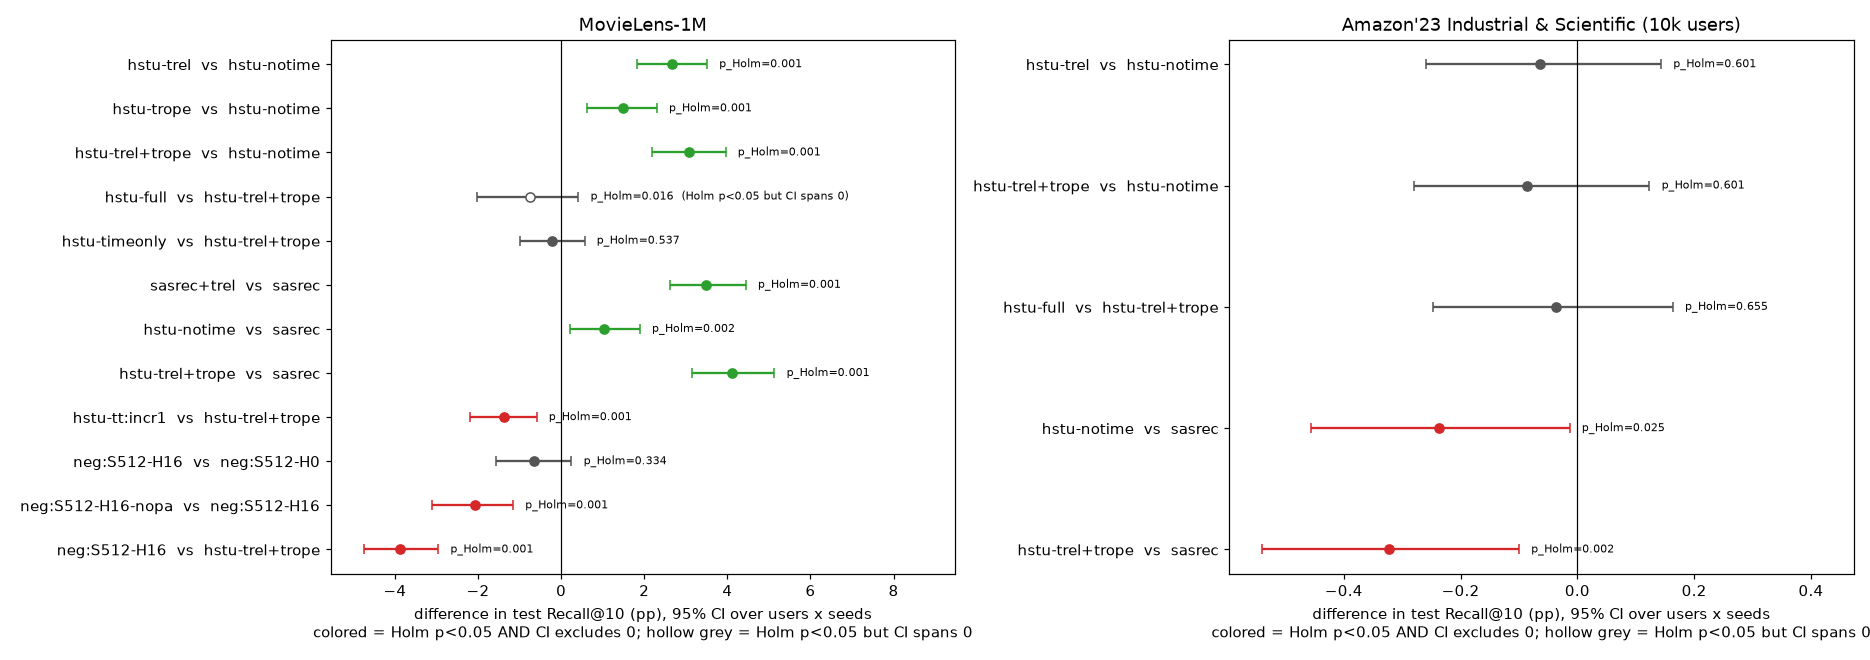
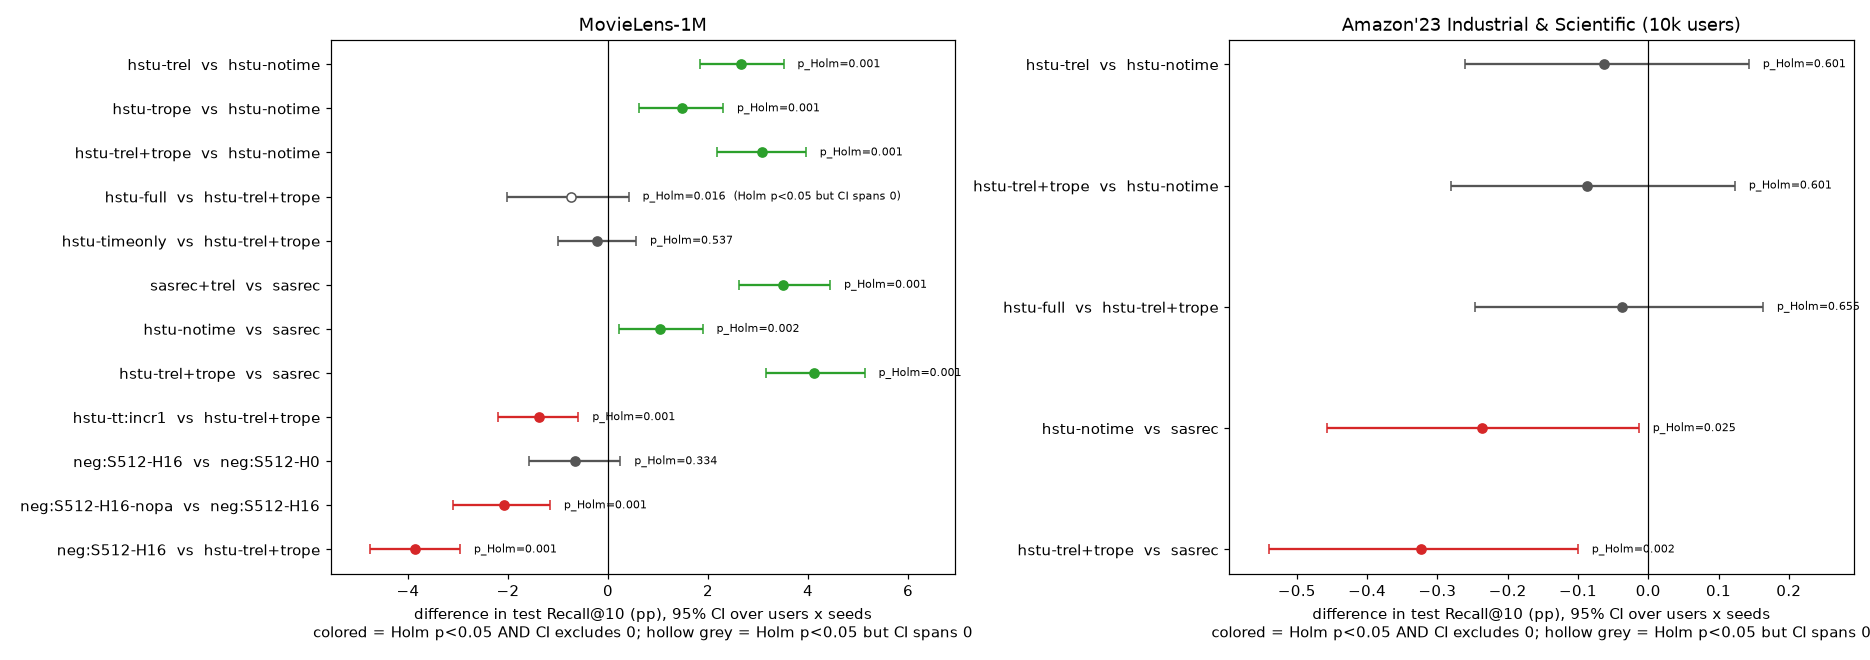
Review r2: posthoc numbers from posthoc.json; hstu-full seed 0 best 22/stopped 26; finalize runs audit.py; forest xlim fits labels; 5 hardening tests (27/27 mutants killed)

diff --git a/tests/test_models.py b/tests/test_models.py
@@ -14,7 +14,7 @@ from tasr.stats import signflip_p
 L, N_ITEMS = 8, 20
 # arch x pos x (trel, trope, tabs)
 CONFIGS = [(a, p, *tf) for a, p, tf in itertools.product(
-    ["sasrec", "hstu"], ["abs", "rel", "none"], [(0, 0, 0), (1, 0, 0), (0, 1, 0), (1, 1, 0), (1, 1, 1)])]
+    ["sasrec", "hstu"], ["abs", "rel", "none"], [(0, 0, 0), (1, 0, 0), (0, 1, 0), (0, 0, 1), (1, 1, 0), (1, 1, 1)])]
 
 
 def make(arch, pos, trel, trope, tabs, seed=0, layers=2):
@@ -119,3 +119,48 @@ def test_window_positions_match_train_batch_targets(toy_npz, max_len):
         y = y[0][y[0] > 0].numpy()
         it, _ = d.seq(u)
         assert np.array_equal(it[window_positions(d, u)], y)
+
+
+@pytest.mark.parametrize("cfg", [c for c in CONFIGS if c[1] != "abs"], ids=lambda c: "-".join(map(str, c)))
+def test_left_padding_is_invisible(cfg):
+    """Padding keys are masked: the same history encoded with and without left padding gives the same
+    outputs at the real positions (absolute positions excluded: they shift with the padding by design)."""
+    m = make(*cfg)
+    x, t, q = batch(4)
+    x[:, :3] = 0
+    with torch.no_grad():
+        h_pad = m.encode(x, t, q)[:, 3:]
+        h = m.encode(x[:, 3:], t[:, 3:], q[:, 3:])
+    assert torch.allclose(h_pad, h, atol=1e-5)
+
+
+@pytest.mark.parametrize("arch", ["sasrec", "hstu"])
+def test_relative_position_bias_sees_order(arch):
+    """One layer, no time features: without positions the last output is invariant to permuting the earlier
+    items; the relative-position bias must break that (a reversed/clamped index makes it constant)."""
+    x, t, q = batch(5, B=1)
+    perm = torch.cat([torch.randperm(L - 1, generator=torch.Generator().manual_seed(1)), torch.tensor([L - 1])])
+    outs = {}
+    for pos in ("none", "rel"):
+        m = make(arch, pos, 0, 0, 0, layers=1)
+        with torch.no_grad():
+            outs[pos] = (m.encode(x, t, q)[:, -1], m.encode(x[:, perm], t, q)[:, -1])
+    assert torch.allclose(*outs["none"], atol=1e-5)
+    assert not torch.allclose(*outs["rel"], atol=1e-4)
+
+
+def test_bad_negatives_positive_aware():
+    from tasr.train import bad_negatives
+    neg = torch.tensor([[0, 1, 2, 3], [1, 2, 3, 4]])
+    yv, row = torch.tensor([2, 4]), torch.tensor([0, 1])
+    hm = torch.zeros(2, 5, dtype=torch.bool); hm[0, 3] = True; hm[1, 1] = True
+    assert bad_negatives(neg, yv).tolist() == [[True, False, True, False], [False, False, False, True]]
+    assert bad_negatives(neg, yv, hm, row).tolist() == [[True, False, True, True], [True, False, False, True]]
+
+
+@pytest.mark.parametrize("epochs", ["0", "-1"])
+def test_train_rejects_nonpositive_epochs(epochs):
+    from tasr.train import get_args
+    with pytest.raises(SystemExit):
+        get_args(["--name", "x", "--epochs", epochs])
+    assert get_args(["--name", "x", "--epochs", "1"]).epochs == 1

diff --git a/scripts/make_figures.py b/scripts/make_figures.py
@@ -43,6 +43,7 @@ for ax, (ds, s) in zip(axes[0], S.items()):
     y = np.arange(len(comp))
     lo_all, hi_all = min(100 * c["lo"] for c in comp), max(100 * c["hi"] for c in comp)
     pad = 0.02 * (hi_all - lo_all)
+    label_end = [hi_all + 4 * pad]
     for yi, c in zip(y, comp):
         p_sig = c["p_holm"] < 0.05
         ci_sig = c["lo"] > 0 or c["hi"] < 0  # hierarchical CI (users x seeds) excludes zero
@@ -51,8 +52,10 @@ for ax, (ds, s) in zip(axes[0], S.items()):
         ax.errorbar(100 * c["diff"], yi, xerr=[[100 * (c["diff"] - c["lo"])], [100 * (c["hi"] - c["diff"])]],
                     fmt="o", color=col, mfc=col if (sig or not p_sig) else "white", capsize=3)
         flag = "  (Holm p<0.05 but CI spans 0)" if p_sig and not ci_sig else ""
-        ax.text(100 * c["hi"] + pad, yi, f" p_Holm={c['p_holm']:.3f}{flag}", va="center", fontsize=7)
-    ax.axvline(0, color="k", lw=0.8); ax.set_xlim(min(lo_all, 0) - 4 * pad, hi_all + 22 * pad)
+        lab = f" p_Holm={c['p_holm']:.3f}{flag}"
+        ax.text(100 * c["hi"] + pad, yi, lab, va="center", fontsize=7)
+        label_end.append(100 * c["hi"] + pad * (2 + 0.55 * len(lab)))  # ~0.55 pad per 7-pt character
+    ax.axvline(0, color="k", lw=0.8); ax.set_xlim(min(lo_all, 0) - 4 * pad, max(label_end))  # right edge = end of the longest p-value label
     ax.set_yticks(y, [f"{c['a']}  vs  {c['b']}" for c in comp]); ax.invert_yaxis()
     ax.set_xlabel("difference in test Recall@10 (pp), 95% CI over users x seeds\ncolored = Holm p<0.05 AND CI excludes 0; hollow grey = Holm p<0.05 but CI spans 0"); ax.set_title(DS[ds])
 fig.tight_layout(); fig.savefig(f"{FIG}/comparisons_forest.png", dpi=110); plt.close(fig)

diff --git a/tasr/train.py b/tasr/train.py
@@ -44,6 +44,16 @@ def get_args(argv=None):
     return a
 
 
+def bad_negatives(neg_ids, yv, hm=None, row=None):
+    """(N, K) bool: negatives to drop. Always the target itself and id 0 (padding / missing neighbour); with
+    positive-aware masking (hm (B, n_items+1) = each user's known positives, row (N,) = user row of each target)
+    also every known positive of that target's user."""
+    bad = (neg_ids == yv[:, None]) | (neg_ids == 0)
+    if hm is not None:
+        bad |= hm[row[:, None], neg_ids]
+    return bad
+
+
 @torch.no_grad()
 def evaluate(model, data, split, bs=512):
     model.eval()
@@ -105,11 +115,11 @@ def main(argv=None):
                     hard = neighbors[xv][torch.arange(len(yv))[:, None], pick]
                     neg_logit = torch.cat([neg_logit, torch.einsum("nd,nkd->nk", hv, E[hard])], 1)
                     neg_ids = torch.cat([neg_ids, hard], 1)
-                bad_neg = (neg_ids == yv[:, None]) | (neg_ids == 0)  # 0 = padding / missing neighbour
+                hm = row = None
                 if a.pos_aware:  # never treat a known positive of this user as a negative
                     hm = data.history_mask([train_hist[u] for u in users])
                     row = torch.arange(len(users))[:, None].expand_as(y)[valid]
-                    bad_neg |= hm[row[:, None], neg_ids]
+                bad_neg = bad_negatives(neg_ids, yv, hm, row)
                 neg_logit = neg_logit.masked_fill(bad_neg, float("-inf"))
                 logits = torch.cat([pos_logit, neg_logit], 1) / a.tau
                 loss_vec = -torch.log_softmax(logits, 1)[:, 0]

diff --git a/scripts/mutation_check.py b/scripts/mutation_check.py
@@ -16,6 +16,13 @@ M = [  # (file, original, mutant, what it breaks)
      "time bias ignores the query time"),
     ("tasr/models.py", "h = h + self._cal(self.cal_q, q)", "h = h + self._cal(self.cal_q, q.roll(-1, 1))",
      "calendar of the next position's query time"),
+    ("tasr/models.py", "h = h + self._cal(self.cal_q, q)", "h = h + self._cal(self.cal_q, t)", "query calendar fed event times"),
+    ("tasr/models.py", "mask = (causal[None] & valid[:, None, :])[:, None].float()",
+     "mask = causal[None, None].float().expand(B, 1, L, L)", "padding keys not masked"),
+    ("tasr/models.py", "rel = (i[:, None] - i[None, :]).clamp(0, self.L - 1)", "rel = (i[None, :] - i[:, None]).clamp(0, self.L - 1)",
+     "reversed relative-position index"),
+    ("tasr/train.py", "bad |= hm[row[:, None], neg_ids]", "bad = bad", "positive-aware masking removed"),
+    ("tasr/train.py", "if a.epochs < 1:", "if a.epochs < 0:", "--epochs 0 accepted"),
     ("tasr/stats.py", "np.abs(null) >= abs(obs) - 1e-12", "null >= obs - 1e-12", "one-sided sign-flip"),
     ("tasr/stats.py", "(flips + 1))", "flips)", "sign-flip without the +1 correction"),
     ("tasr/stats.py", "running = max(running, min(1.0, (k - rank) * p[i]))", "running = min(1.0, (k - rank) * p[i])",

diff --git a/README.md b/README.md
@@ -20,7 +20,7 @@ Results carry 95% CIs over users × seeds, with Holm-corrected paired tests.
    - On Amazon the drop is at most 0.03 pp and no CI excludes zero ([`results/amz_Industrial_and_Scientific_u10k/query_time_ablation.json`](results/amz_Industrial_and_Scientific_u10k/query_time_ablation.json)). See the query-time figure below.
 1. **Time in attention helps on ML-1M, by modelling rating sessions.** These comparisons are paired over users, Holm-corrected, and shown in the forest plot.
    - The relative time bias (`trel`) adds +2.67 pp Recall@10 [+1.84, +3.51] on HSTU (3 seeds) and +3.49 pp [+2.62, +4.44] on SASRec (sasrec+trel has 1 seed). Time RoPE alone adds +1.48 pp [+0.62, +2.30], and trel+trope adds +3.08 pp [+2.19, +3.96].
-   - Adding calendar embeddings on top (hstu-full vs hstu-trel+trope) does not help: −0.74 pp [−2.03, +0.41] over users × seeds, which is inconclusive. The user-level sign-flip (Holm p = 0.016) conditions on the three trained checkpoints, and the gap comes from seed 0: per-seed −2.09 / −0.41 / +0.28 pp, seed-level Welch p = 0.35 ([`results/ml1m/posthoc.json`](results/ml1m/posthoc.json), from [`scripts/audit.py`](scripts/audit.py)). That seed early-stopped at epoch 22, while seeds 1 and 2 ran to the 40-epoch cap (epoch-cap figure). So this is no evidence that calendar embeddings hurt; at most it is a small, unstable negative. The forest plot draws it as a hollow grey marker (test and CI disagree).
+   - Adding calendar embeddings on top (hstu-full vs hstu-trel+trope) does not help: −0.74 pp [−2.03, +0.41] over users × seeds, which is inconclusive. The user-level sign-flip (Holm p = 0.016) conditions on the three trained checkpoints, and the gap comes from seed 0: per-seed −2.09 / −0.41 / +0.28 pp, seed-level Welch p = 0.35 ([`results/ml1m/posthoc.json`](results/ml1m/posthoc.json), from [`scripts/audit.py`](scripts/audit.py)). That seed early-stopped (best epoch 22, stopped at 26), while seeds 1 and 2 ran to the 40-epoch cap (epoch-cap figure). So this is no evidence that calendar embeddings hurt; at most it is a small, unstable negative. The forest plot draws it as a hollow grey marker (test and CI disagree).
    - The recall-by-gap figure shows the gain sits in the < 1 min bucket (hstu-trel+trope 41.1% vs hstu-notime 37.4%). That is the ML-1M rating-burst artefact, not long-horizon seasonality.
    - Best ML-1M model: hstu-trel+trope at 33.41 [32.26, 34.55] Recall@10, +4.12 pp [+3.15, +5.13] over SASRec. Without time, HSTU beats SASRec by +1.04 pp [+0.22, +1.89].
 2. **On the sparse Amazon subsample, nothing beats popularity by much, and time features do not help.**
@@ -29,7 +29,7 @@ Results carry 95% CIs over users × seeds, with Holm-corrected paired tests.
 3. **Incremental recall.** On ML-1M the neural models reach 17 to 20% Incr@10, meaning they rank the target in their top 10 for that share of users whose target the union of Pop, RecentPop and ItemKNN misses (union Recall@10 is 20.33%). Time features raise Incr@10 with Recall@10 (hstu-trel+trope vs hstu-notime +2.46 pp [+1.82, +3.11]). Boosting-style training on ensemble misses (`hstu-tt:incr1`, 1 seed) does not raise Incr@10 (+0.18 pp [−0.45, +0.84]) and costs 1.39 pp [0.59, 2.19] of Recall@10. On Amazon, Incr@10 stays below 1%. See the incremental-recall figure.
 4. **Negative sampling is a real lever at a fixed 40-epoch budget (ML-1M, HSTU trel+trope, 1 seed).** All 7 sampled-softmax HSTU runs hit the 40-epoch cap with validation NDCG@10 still rising (+0.73 to +1.36 pp over their last 10 epochs; epoch-cap figure), so part of the effect of S may be convergence speed rather than final quality. See the negatives heatmap.
    - At this budget, more shared negatives help a lot: Recall@10 is 24.85 at S = 128, 30.20 at S = 512 and 32.76 at S = 2048, against 33.41 for the full softmax.
-   - 16 hard ItemKNN negatives add nothing at S = 512 (−0.66 pp [−1.57, +0.25]); at S = 2048 with 16 hard negatives, the exploratory (unplanned, not Holm-corrected) gap to full softmax is −0.31 pp [−1.18, +0.56], sign-flip p = 0.42, i.e. not resolved ([`results/ml1m/posthoc.json`](results/ml1m/posthoc.json)).
+   - 16 hard ItemKNN negatives add nothing at S = 512 (−0.66 pp [−1.57, +0.25]); at S = 2048 with 16 hard negatives, the exploratory (unplanned, not Holm-corrected) gap to full softmax is −0.31 pp [−1.14, +0.56] (users × seeds), sign-flip p = 0.41, i.e. not resolved ([`results/ml1m/posthoc.json`](results/ml1m/posthoc.json)).
    - Positive-aware masking matters: hard negatives without it cost 2.07 pp [1.16, 3.10] of Recall@10.
 5. **Cost.** On one CPU thread, at history length 200 and batch 1, median latency is 2.0 ms for hstu-notime and 3.1 ms for hstu-trel+trope; training throughput at length 100 drops from 312 to 198 sequences/s. The overhead comes mostly from the per-pair bias gather and the rotary maths. The box was shared (load average ~30 on 8 CPUs), so the ordering is more trustworthy than the absolute numbers ([`results/bench.json`](results/bench.json), latency figure).
 
@@ -207,8 +207,8 @@ git clone https://github.com/arman-dogru/time-aware-sequential-recommender && cd
 python3 -m venv .venv
 .venv/bin/pip install -r requirements-lock.txt        # or: -r requirements.txt (direct pins), -r requirements-dev.txt (+pytest)
 .venv/bin/python -m pytest -q tests                    # unit + mutation tests (seconds)
-.venv/bin/python scripts/mutation_check.py           # 22 single-line mutants of tasr/ (causality, time-bias index, stats,
-                                                       # baselines, splits, metrics); each must make pytest fail -> results/mutation_check.json
+.venv/bin/python scripts/mutation_check.py           # 27 single-line mutants of tasr/ (causality, padding, time-bias index, stats,
+                                                       # baselines, splits, metrics, negatives); each must make pytest fail -> results/mutation_check.json
 export PYTHONPATH=.                                    # scripts default to PY=.venv/bin/python (override with PY=...)
 
 # 1. data (downloads are sha256-checked; raw data is never committed)
